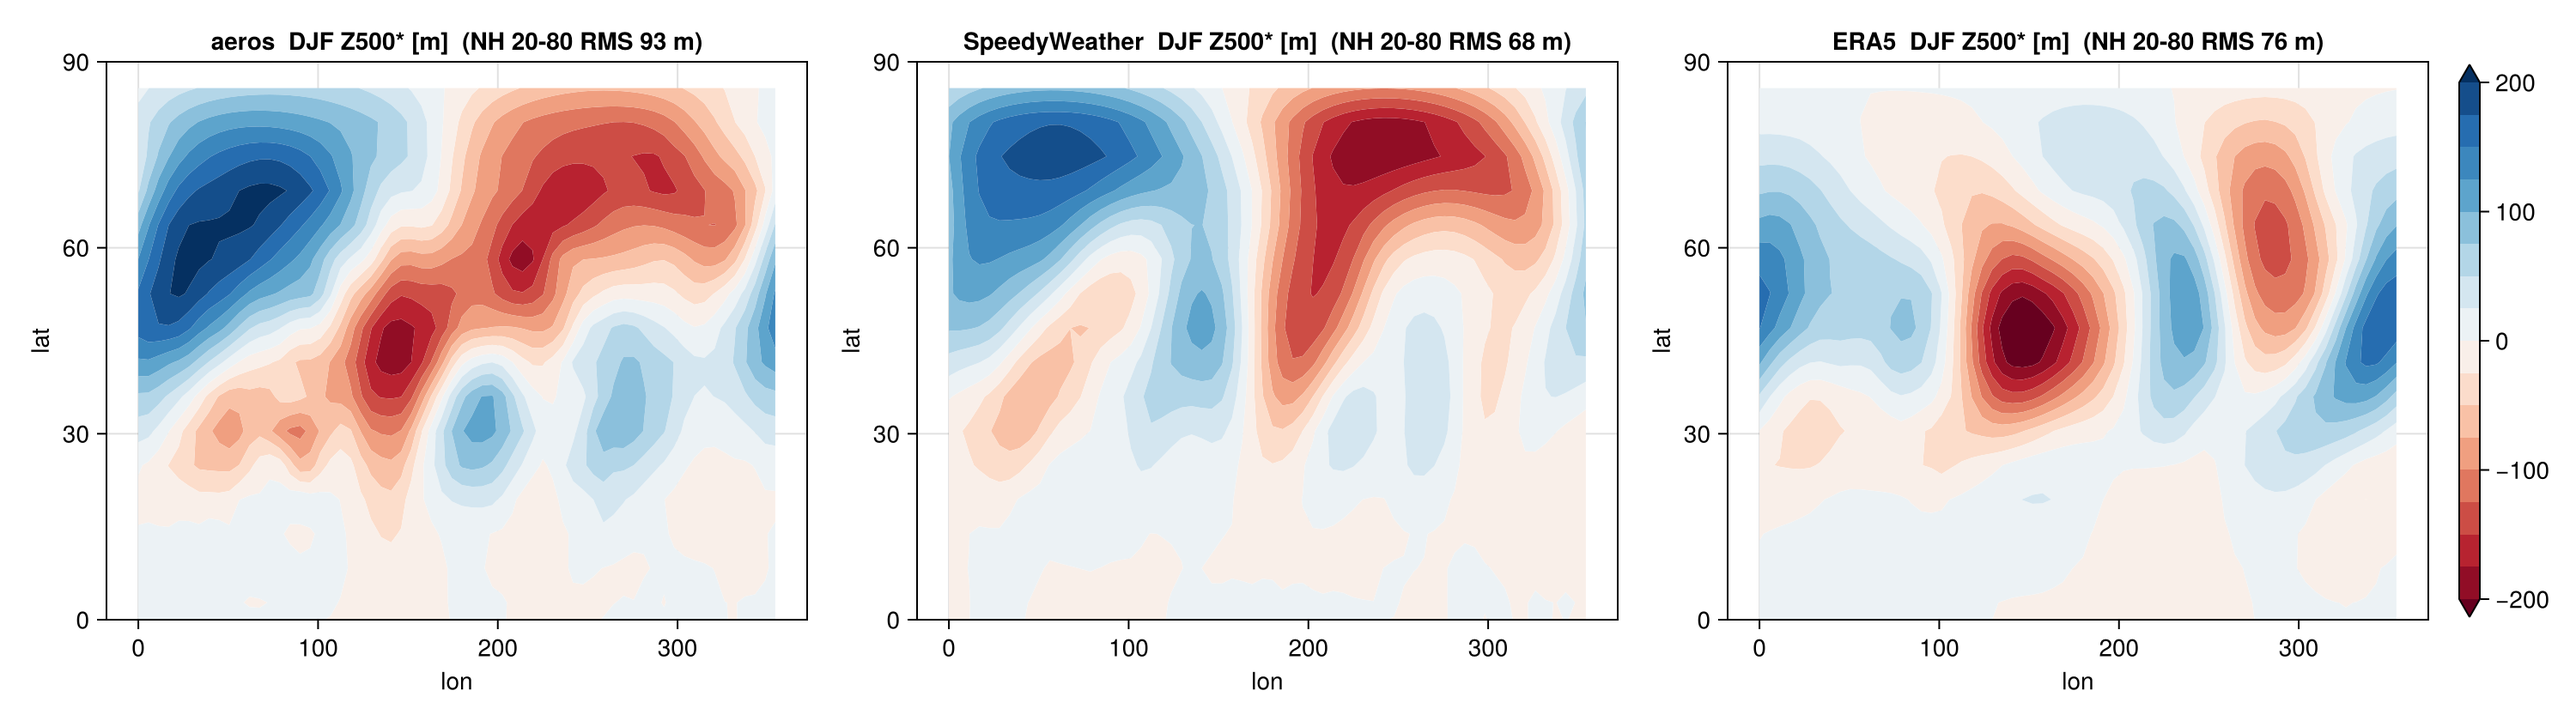
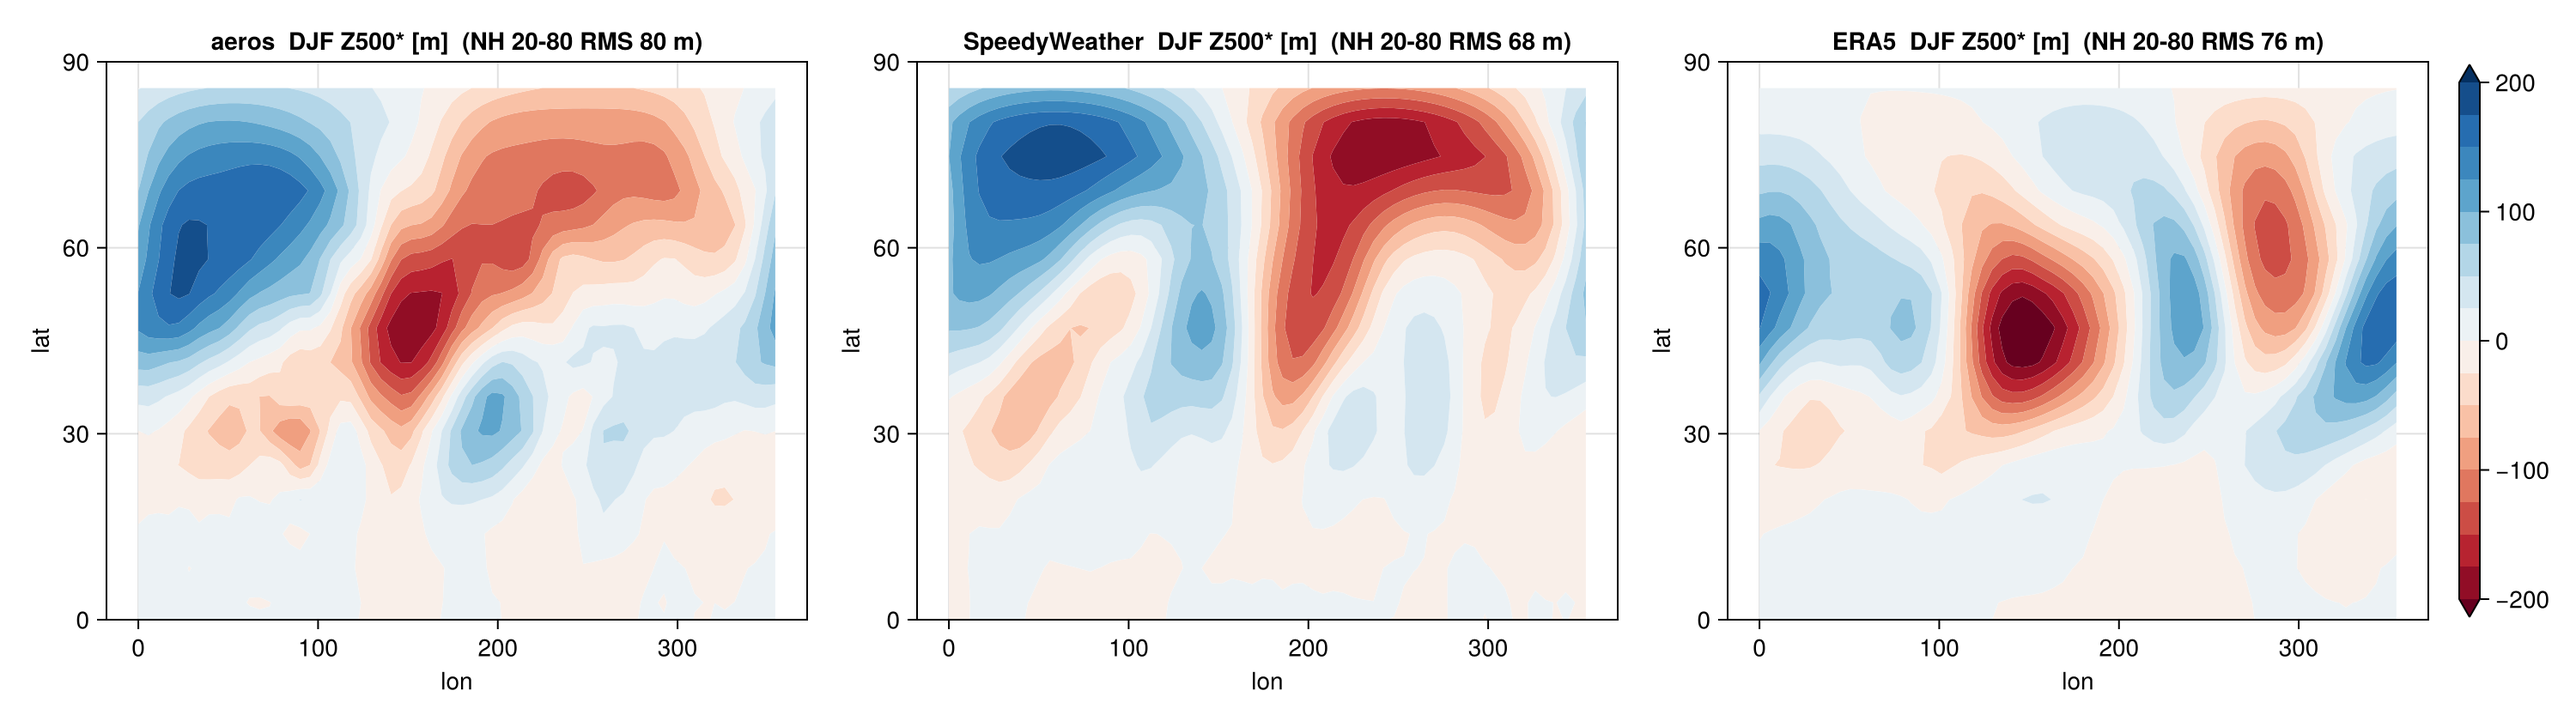
land: seasonal ERA5 albedo (monthly fal, daily interpolation) and c_soil 5e6; albedo map refreshed whenever it is seasonal
JJA NH-land T now within 1-2 K of ERA5 in every band; DJF stays 3-7 K cold because the whole winter lower troposphere at 60-70N is 7-13 K cold (not a land problem). Harness: P 2.7, TOA +2, Z500* 80 m (was 93).

Changed region(s): [[0.031, 0.1238, 0.31, 0.7429]]

diff --git a/docs/m2_handoff.md b/docs/m2_handoff.md
@@ -106,7 +106,7 @@ at a clean end (not on a NaN).
 1. ~~Make **L6** the default~~ — done 2026-09-06 (library + driver defaults, harness namelist
    `aeros_realearth_T21L6.nml`, climatology above).
 2. Deficit 1 (upper-troposphere moisture), then deficit 2 (polar precipitation).
-3. Re-do the land t2m calibration through the harness afterwards (the old numbers are void).
+3. ~~Re-do the land t2m calibration~~ — done 2026-09-07 (seasonal albedo, c_soil 5e6); the residual is the winter atmospheric cold bias.
 
 ---
 
@@ -338,6 +338,33 @@ one change at a time; "lid" = tropical (|lat|<15) top-layer T / q (ERA5 layer me
   hydrological cycle over-drives both. Next: the land calibration (already void), and the
   stationary wave (orographic + thermal forcing at T21).
 - The tropical lid is unchanged (225 K top-level mean; the mechanism entry above stands).
+
+**Update 2026-09-07: land recalibration (through the harness).** Findings, then what changed:
+- The harness metric compares the model's LOWEST LEVEL (~350 m at L6) with ERA5 2 m. Under the
+  winter inversion that hides half the bias: at 60–70N land the model's DJF lowest level is
+  241 K vs ERA5 2 m 249 K and ERA5 925 hPa 255 K. **The DJF cold is the whole lower troposphere**
+  (zonal mean at 64–69N: 700 hPa −7 K, 850 −10 K, 925 −13 K; JJA within 1 K), land and ocean
+  alike — an atmospheric (winter heat-transport / boundary) problem, not the land scheme.
+- **Seasonal land albedo** (`land_albedo_seasonal = .true.`, `aeros_land_set_albedo`): the 12
+  monthly ERA5 `fal` slices interpolated daily (mid-month centres, as the seasonal SST). The
+  annual-mean map is snow-contaminated (0.36 at 65N, vs 0.15 in July) and left JJA high-latitude
+  land 6 K cold; with the monthly field JJA matches ERA5 within 1–2 K in every NH band, and the
+  diagnostic snow bump (`snow_albedo`) is redundant (off in the harness). Bug fixed on the way:
+  the per-step albedo-map refresh in `aeros_timestep` was gated on the snow bump, so without it a
+  seasonal albedo would have stuck at its January value.
+- **`c_soil` IS a lever now** (the 2026-07 "not the lever" note was on stale sampling): 2e6 → 1e7
+  cuts the NH-land amplitude by ~5 K (DJF +2, JJA −3.5). Chosen **5e6** (physical: 2.5e6 J m⁻³ K⁻¹
+  over the ~2 m annual penetration depth), which keeps JJA right rather than buying winter with a
+  summer cold bias. Single-month land means over 60–90 grid points vary by ±2–3 K between 2-yr
+  runs; calibrate on DJF/JJA means.
+- Harness 3 yr (`docs/refs/realearth_metrics_2026-09-06_L6_land.md`): P 2.70, TOA +2.1, Z500* 80 m
+  (ERA5 76; was 93 with the annual-mean albedo), lowest-level |Jul−Jan| NH-land 38.6 K (the
+  single-month lowest-level metric; DJF/JJA band table in the ref file), 2720 SYPD.
+- **Next:** the winter high-latitude lower-troposphere cold bias (7–13 K) — candidates: winter
+  low cloud / LW down over cold land and sea ice (`cld_rhc_sfc`, mixed-phase RH), the polar ocean
+  freeze floor without sea ice, eddy heat transport at T21. A 2 m diagnostic from the surface layer
+  would make the harness metric honest.
+
 
 
 

diff --git a/docs/refs/realearth_metrics_2026-09-06_L6_land.md b/docs/refs/realearth_metrics_2026-09-06_L6_land.md
@@ -1,0 +1,18 @@
+# aeros vs SpeedyWeather vs ERA5, real-Earth T21 (aeros L6, land recalibration 2026-09-06: seasonal ERA5 albedo, c_soil 5e6, snow bump off)
+
+aeros 3 yr (2 yr spin-up + 1 yr monthly), dt = 3600. Year-3 means: TOA net +2.1 W/m², CRE SW −58 LW +32, cloud cover 0.52, P = E = 2.70 mm/day, LH 79 W/m².
+
+NH-land lowest-level T vs ERA5 t2m by band (DJF / JJA, K): 40–50N 263.4/293.3 vs 266.7/293.9; 50–60N 253.0/289.7 vs 259.0/288.6; 60–70N 241.3/280.7 vs 248.8/282.8; 70–85N 236.0/269.4 vs 242.4/271.2. ERA5 DJF at 925 hPa over 60–70N land is 255 K: the winter bias at comparable height is ~13 K and is the whole lower troposphere (zonal mean, 700–925 hPa, 7–13 K).
+
+aeros: `mwm/D_realearth/output/aeros_realearth_T21L6.nc`  
+SW: `/Users/alrobi001/models/aeros/mwm/D_realearth/output/sw_realearth_T21L8.nc`
+| metric | aeros | SpeedyWeather | ERA5 |
+|---|---|---|---|
+| global-mean precip [mm/day] | 2.7 | 3.3 | 2.9 |
+| global-mean T, top level / 70 hPa [K] | 224.8 | 235.2 | 206.6 |
+| global-mean T, lowest level / 2 m [K] | 283.2 | 278.3 | 287.5 |
+| max annual zonal-mean u [m/s] | 55.9 | 63.0 | 33.7 |
+| max annual [u] at 200 hPa [m/s] | 46.5 | 41.2 | 31.3 |
+| DJF NH Z500* RMS 20-80N [m] | 79.9 | 68.3 | 76.1 |
+| t2m |Jul-Jan|, NH 40-70N land [K] | 38.6 | 29.2 | 33.6 |
+| throughput [SYPD, 10 threads] | 2724.1 | 1037.9 | NaN |
